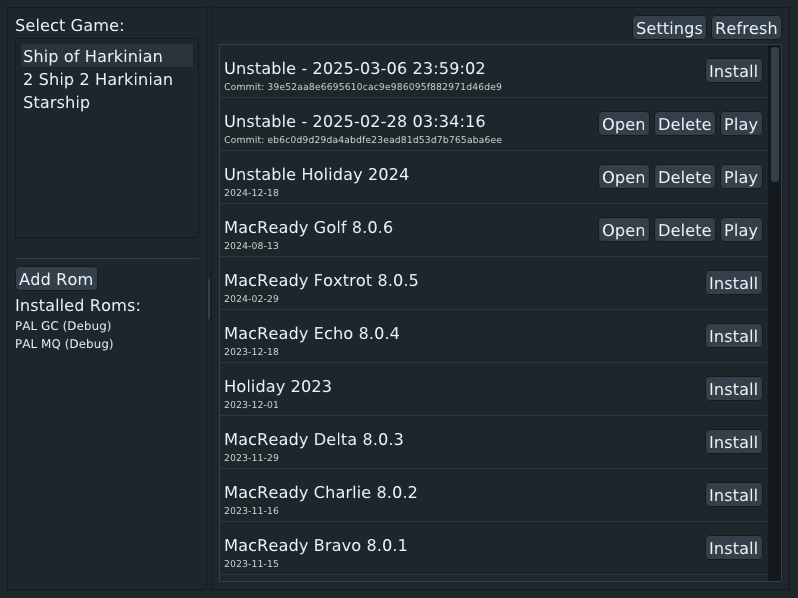
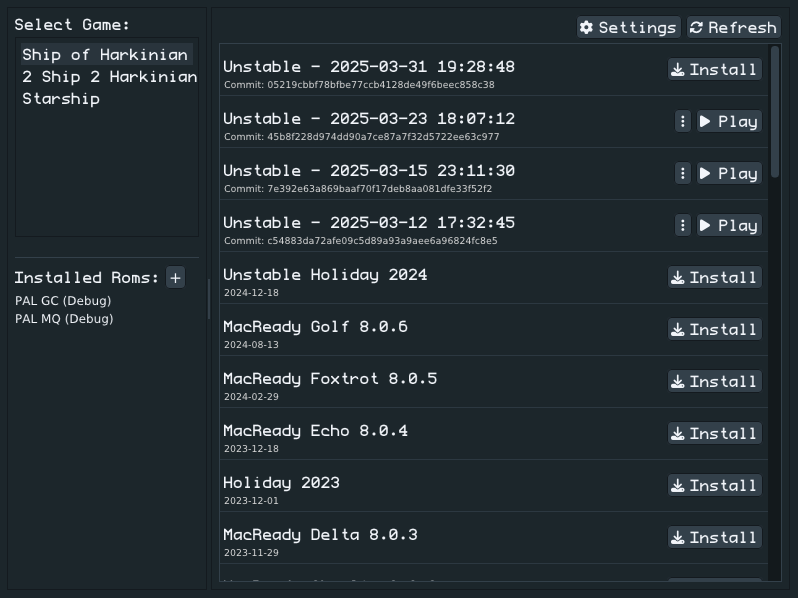
update some readme

diff --git a/README.md b/README.md
@@ -40,7 +40,7 @@ If I was a good developer there would be tests.
 
 ## Support
 
-I created Marina both as a pet project to try out golang, and also as a proof of concept for what a version-manager & launcher would look like for these projects. There will surely be many bugs. I will try to fix anything major and within my ability, but I don't plan to maintain this project indefinitely. Don't expect major breakages to be resolved with any urgency.
+I created Marina both as a pet project to try out golang, and also as a proof of concept for what a version-manager & launcher could look like for these projects. There will surely be many bugs. I will try to fix anything major and within my ability, but I don't plan to maintain this project indefinitely. Don't expect major breakages to be resolved with any urgency.
 
 > [!CAUTION]
 > This alpha software and part of its feature-set includes deleting files. Be VERY careful when modifying the install location. [See Here](#testing)
